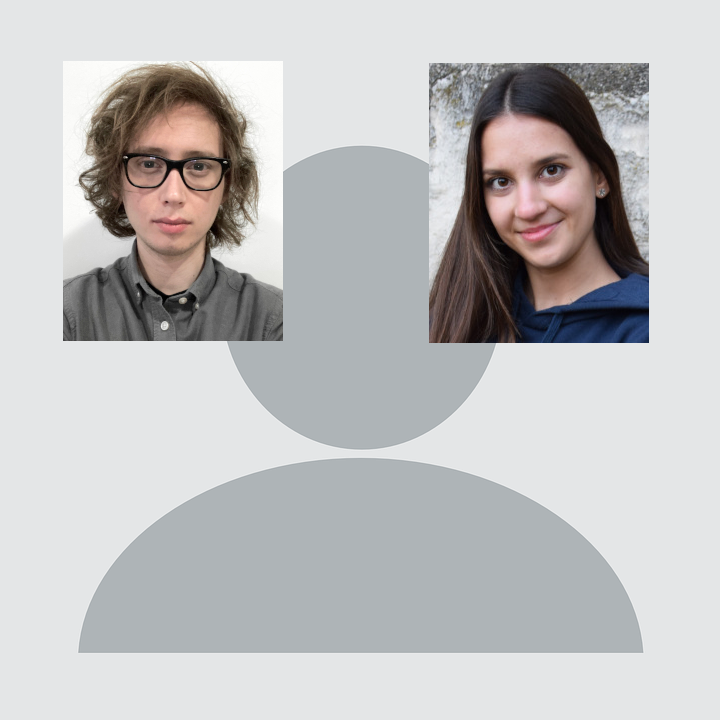
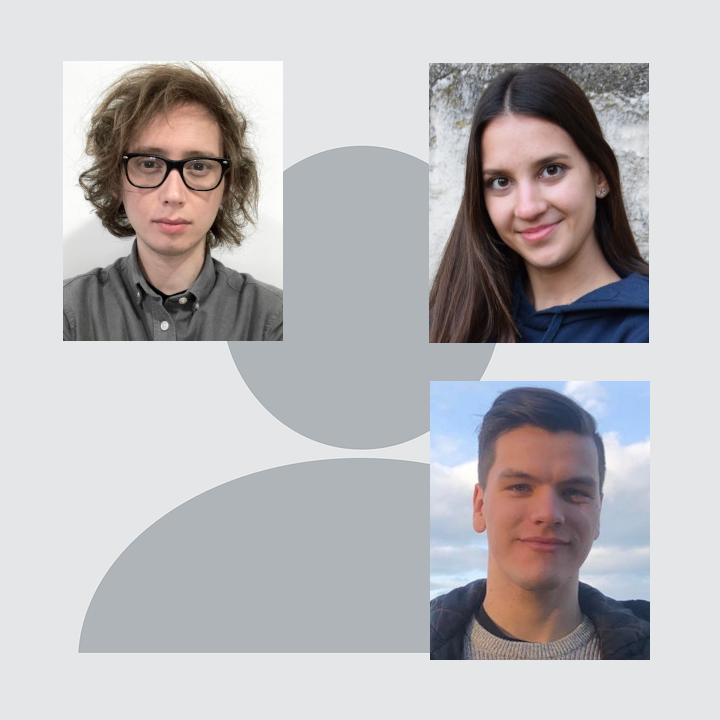
team Matic

Changed region(s): [[0.5806, 0.5194, 0.9167, 0.9167]]

diff --git a/_team/MaticZupancic.md b/_team/MaticZupancic.md
@@ -3,7 +3,7 @@ title: "Matic Zupančič"
 title2: 
 collection: team
 header:
-  teaser: team_profile.png
+  teaser: team_MaticZupancic.jpg
 tags: student
 tagline: MSc student
 location: # "Room 109"
